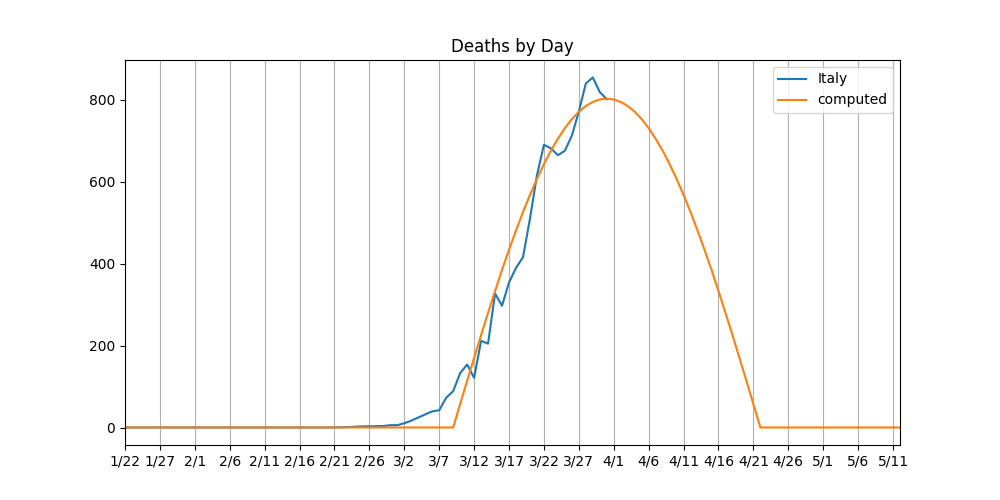
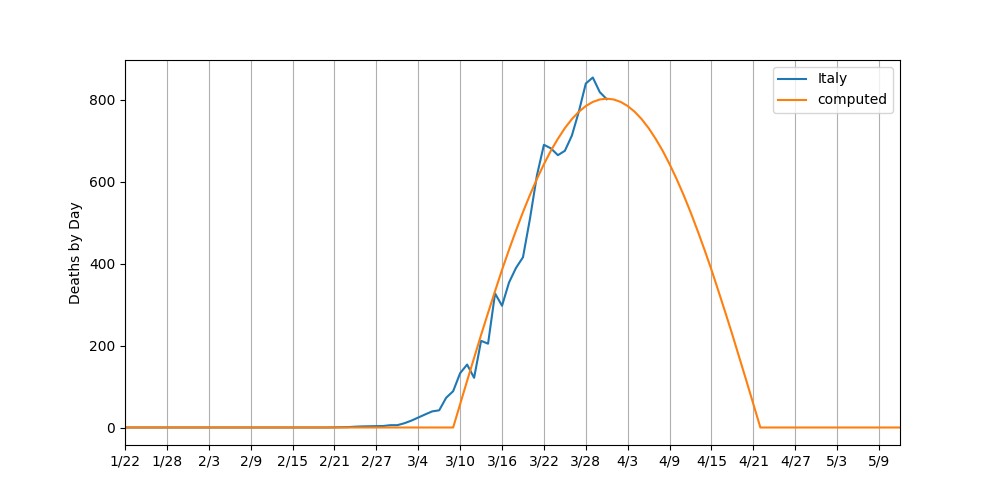
Minor tweaks for publishing

diff --git a/site/index.html b/site/index.html
@@ -9,7 +9,7 @@
 <div class="container mx-auto lg px-4 text-gray-800">
 <h1 class="text-center text-3xl text-gray-900">Covid-19 Predictions</h1>
 <h2 class="text-center text-2xl">by <a class="text-blue-700 hover:text-blue-800 underline" href="https://www.linkedin.com/in/williamspeirs/">William R. Speirs</a></h2>
-<h3 class="text-center text-xl">Written: March 31st</h3>
+<h3 class="text-center text-xl">Data Through March 31st</h3>
 <p class="mt-6">
     <span class="font-semibold">Disclaimer:</span>  Everything on this page is a prediction. I make no claims to the accuracy
     of the information.
@@ -18,7 +18,8 @@
     This is an attempt to predict the rise and fall of deaths from the covid-19 virus. I focus on deaths because
     it is the most accurate indicator/data we have on this virus. In an attempt to predict the rise and fall of deaths,
     I first looked at China as it is the only country (South Korea has seen multiple rises and falls) that has seen a
-    rise and fall in deaths. All code used to create these predications can be found on
+    rise and fall in deaths. There have been accusations of inaccurate data from China, but in my opinion, it is the best
+    data we have at the moment. All code used to create these predications can be found on
     <a class="text-blue-700 hover:text-blue-800 underline" href="https://github.com/wspeirs/covid">GitHub</a>.
     I used the following assumptions in my predictions:
 </p>
@@ -27,7 +28,8 @@
 <ul class="list-disc">
     <li>
         Reported deaths are not prefect; therefore, I use a 3-day moving average to smooth out these numbers a bit. Why
-        3 days instead of some other number? I played around with the data and model and it seemed to produce the most accurate results.
+        3 days instead of some other number? I played around with the data and model, and a 3-day moving average was a nice
+        balance between smoothing the data while not vastly distorting the original values.
     </li>
     <li>
         The <a class="text-blue-700 hover:text-blue-800 underline" href="https://www.who.int/docs/default-source/coronaviruse/who-china-joint-mission-on-covid-19-final-report.pdf">WHO</a>
@@ -35,34 +37,47 @@
         states that the mean duration from symptom onset to death is 17.8 days (16.9 to 19.2 95% credible interval).
         The <a class="text-blue-700 hover:text-blue-800 underline" href="https://www.insidermonkey.com/blog/hell-is-coming-here-is-the-mathematical-proof-822824/">"Hell is Coming"</a>
         report used 23 - 24 days, and had a fairly accurate prediction of 800 deaths in the US on March 26th (it was actually 1,275).
-        For my predictions I've used 24 days between a country issues a lock-down to the peak of deaths in that country.
+        For my predictions I've used 24 days between when a country issues a lock-down, and the peak of deaths in that country.
     </li>
     <li>
         It has been reported in numerous places that the morality rates of the virus vary greatly by age and preexisting
-        conditions. I'm treating everyone in a country the same.
+        conditions. I'm treating everyone in a country the same, and people across countries the same as well.
     </li>
     <li>
-        "Lock-down" dates are not perfect. Lots of people do not follow the orders, and the <a class="text-blue-700 hover:text-blue-800 underline" href="https://www.nytimes.com/interactive/2020/us/coronavirus-stay-at-home-order.html">
+        "Lock-down" dates are not perfect. Lots of people do
+        <a class="text-blue-700 hover:text-blue-800 underline" href="https://www.nytimes.com/2020/04/01/us/coronavirus-texas-austin-spring-break-cabo.html">not follow the orders</a>,
+        and the <a class="text-blue-700 hover:text-blue-800 underline" href="https://www.nytimes.com/interactive/2020/us/coronavirus-stay-at-home-order.html">
         order that is issued makes a large difference</a> as well. Instead of trying to be too precise, I simply pick a
         single date and assume the peak will come 24 days later.
     </li>
+    <li>
+        Being "out-of-the-woods" as I call it, is highly subjective. I'm shooting for a date when people feel safe to
+        interact with others in public. This is very much an emotional and subjective date, so any model will be inaccurate.
+    </li>
 </ul>
-<br>
+<br/>
+<span class="font-semibold text-xl">China</span>
 <p>
-    I attempted to find a model that predicts when a country is "out-of-the-woods" by trying to fit a sine wave to the number
+    I attempt to model when a country is "out-of-the-woods" by trying to fit half a sine wave to the number
     of deaths by day. Why a sine wave and not another function? I tried a few, and the sine wave fit pretty nicely to the
-    number of deaths by day in China as shown below:
+    number of deaths by day in China. Also, half a sine wave naturally fits what you would expect to see: a rise in deaths-by-day,
+    followed by a fall in deaths-by-day as sheltering-in-place begins to work. Using this methodology, my model predicts
+    that China "will be" out-of-the-woods on March 6th with a total of 3,180 deaths. As of March 6th China had reported
+    3,044 deaths, a difference of 136. While only a single country, this <i>seems</i> to validate the use of half a sine wave
+    to predict the rise and fall of deaths for the virus. The data with the fitted curve for China can be seen below:
     <img class="mx-auto" src="img/china.png" alt="China prediction"/>
-    My model predicts that China "will" be out-of-the-woods on March 6th with a total of 3,180 deaths. As of March 6th China
-    had reported 3,044 deaths, a difference of 136. While only a single country, this <i>seems</i> to validate using a sine wave
-    to predict the rise and fall of deaths for the virus.
+
 </p>
+<br/>
+<span class="font-semibold text-xl">Italy</span>
 <p>
     Italy has received a lot of attention because of the rapid increase in deaths in the country. Italy issued a lock-down of
     their country on March 8th. Using this date and the deaths reported, my model predicts Italy will be "out-of-the-woods"
     on April 23rd with 22,485 deaths. As of March 31st they have reported 12,428 deaths. The curve for Italy is shown below:
     <img class="mx-auto" src="img/italy.png" alt="Italy prediction"/>
 </p>
+<br/>
+<span class="font-semibold text-xl">United States</span>
 <p>
     The last country I modeled is my own, the United States. The US issued lock-down orders at
     <a class="text-blue-700 hover:text-blue-800 underline" href="https://www.nytimes.com/interactive/2020/us/coronavirus-stay-at-home-order.html">various times</a>

diff --git a/prediction.py b/prediction.py
@@ -69,7 +69,7 @@ def fit_sin(df, country, lockdown_date):
 countries = [
     # "Belgium",
      # "Brazil",
-    # "China",
+    "China",
     # "France",
     # "Germany",
      # "Indonesia",
@@ -87,7 +87,7 @@ countries = [
 
 global_deaths_df = pd.read_csv('data/global_deaths.csv', header=0)
 
-us_df = compute_us()
+# us_df = compute_us()
 
 data = defaultdict(lambda: dict())
 
@@ -100,7 +100,8 @@ for date in global_deaths_df.columns[4:]:
 
         data[country][date_dt] = df[date].sum()
 
-    data['US'][date_dt] = us_df.loc[date_dt]['deaths'] if date_dt in us_df.index else np.nan
+    # if date_dt in us_df.index:
+    #     data['US'][date_dt] = us_df.loc[date_dt]['deaths']
 
 df = pd.DataFrame(data)
 df = df.sort_index()
@@ -110,27 +111,29 @@ print(df)
 df_diff = df.copy()
 
 # convert from raw counts to percent change with a 3-day moving average
-for country in list(countries) + ['US']:
+for country in list(countries): # + ['US']:
     df_diff[country] = df[country].diff().rolling(window=3).mean()
 
 df_diff = df_diff.fillna(value=0)
 print(df_diff)
 
 # fit the sin curve
-lockdown_date = datetime.date(year=2020, month=3, day=24)
-clear_date = fit_sin(df_diff, 'US', lockdown_date)
+lockdown_date = datetime.date(year=2020, month=1, day=23)
+clear_date = fit_sin(df_diff, 'China', lockdown_date)
 
 print("Clear by: {} with {} deaths".format(clear_date, df_diff['computed'].sum()))
 
 # plot the results
-ax = df_diff.plot(figsize=(10,5), title='Deaths by Day')
+# ax = df_diff.plot(figsize=(10,5), title='Deaths by Day')
+ax = df_diff.plot(figsize=(10,5))
 (start, end) = ax.get_xlim()
 ax.xaxis.set_ticks(np.arange(start, end, 6))
 ax.xaxis.set_major_formatter(mdates.DateFormatter('%-m/%-d'))
+plt.ylabel('Deaths by Day')
 # plt.ylim(-1, 6)
 plt.grid(which='both', axis='x')
 
 # plt.show()
-plt.savefig('site/img/us.png')
+plt.savefig('site/img/china.png')
 
 print()
